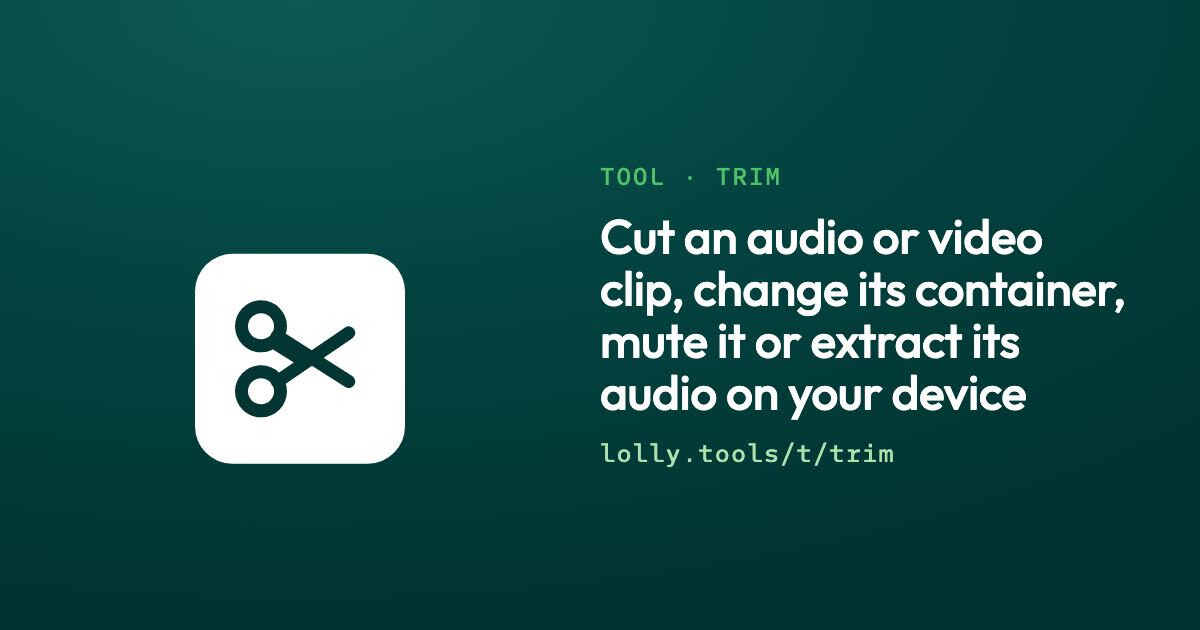
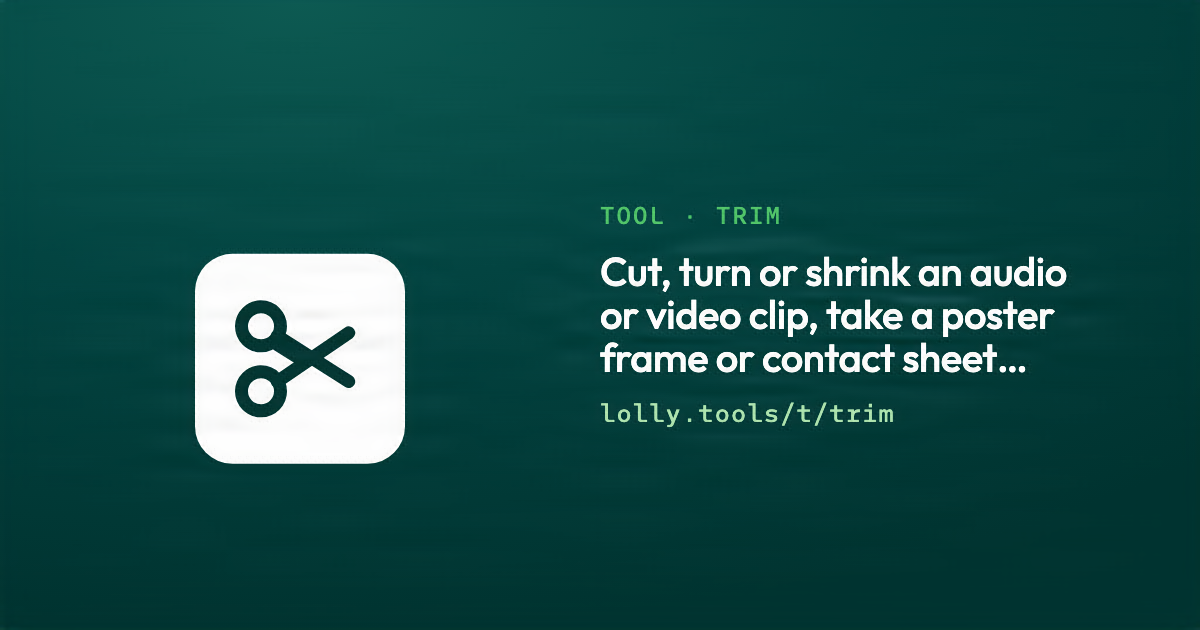
Ship local UI tweaks and refreshed Pages and Trim share cards
- History panel: drop its own padding and the sticky header's background.
- Edge dock: square the corners of a panel docked to the edge.
- lolly-demo share cards for Pages and Trim re-rendered for their
  current descriptions (Pages now mentions turning images into a PDF).
- /info docs CSS rebuilt from current docs sources.

Changed region(s): [[0.4933, 0.3317, 0.925, 0.754], [0.5858, 0.2714, 0.6475, 0.3016], [0.4933, 0.2714, 0.555, 0.3016]]

diff --git a/shells/web/public/info/docs.RDEhcLaHE5JpCjmS.css b/shells/web/public/info/docs.RDEhcLaHE5JpCjmS.css
@@ -93,7 +93,7 @@
   --shadow-rail: 1rem 0 1rem -1rem #0002;
   --shadow-sidebar: 1px 0 3px -3px #0001, 1rem 0 .5rem -.5rem #0001;
   --bevel: inset 0 1px hsl(0 0% 100% / .1);
-  --bevel-inset: inset 0 0px 2px #0003, inset -1px 2px 5px #0001, 0 1px var(--ui-color-surface-raised);
+  --bevel-inset: inset 0 0px 2px color-mix(in srgb, var(--foreground) 25%, transparent), inset -1px 2px 5px #0001, 0 1px var(--ui-color-surface-raised);
   --bevel-input-well: inset 3px 2px 10px var(--ui-color-surface-canvas);
   --ring-focus: 0 0 0 3px hsl(var(--ring) / .15);
   --ring-focus-strong: 0 0 0 2px hsl(var(--primary) / .35);
@@ -2444,7 +2444,7 @@ html[data-a11y-motion="reduce"] .covers--fan .cover-card{transition:none}
 .persona-title{margin-bottom:1.25rem;text-align:center; color:color-mix(in oklab,var(--green) 65%,var(--page)) }
 .persona-radio,.lane-radio{position:absolute;opacity:0;pointer-events:none;width:1px;height:1px}
 .persona-tabs{display:grid;grid-template-columns:repeat(3,1fr);gap:12px}
-.persona-tab{display:flex;flex-direction:column;gap:4px;padding:1rem 1.15rem;border:1px solid var(--border);border-radius:12px;background:var(--page);cursor:pointer;position:relative;transition:border-color .2s ease,transform .2s ease;padding-right:4.4rem}
+.persona-tab{display:flex;flex-direction:column;gap:4px;padding:1rem 1.15rem;border-radius:12px;background:var(--page);cursor:pointer;position:relative;transition:border-color .2s ease,transform .2s ease;padding-right:4.4rem}
 .persona-mascot{position:absolute;right:.7rem;top:50%;transform:translateY(-50%);width:8.5em;height:8.5em;object-fit:contain;pointer-events:none}
 /* The platypus is a wide animal: in the 8.5em square it read as a smudge (Andy, 2026-09-03: 12em). */
 .persona-mascot[src$="platypus.webp"]{width:12em;height:12em; margin-top:-1.5em}

diff --git a/shells/web/src/components/history-panel.css b/shells/web/src/components/history-panel.css
@@ -1,5 +1,5 @@
-.revision-history-panel { display:flex; flex-direction:column; gap:var(--ui-space-control-block); padding:var(--ui-space-panel); min-height:0; height:100%; overflow:auto; background:var(--ui-color-surface-canvas); color:var(--ui-color-text-default); box-sizing:border-box; }
-.revision-history-panel > header { display:flex; align-items:center; justify-content:space-between; gap:var(--ui-space-control-block); position:sticky; top:0; z-index:1; background:var(--ui-color-surface-canvas); padding-block:var(--sp-2); }
+.revision-history-panel { display:flex; flex-direction:column; gap:var(--ui-space-control-block);   min-height:0; height:100%; overflow:auto; background:var(--ui-color-surface-canvas); color:var(--ui-color-text-default); box-sizing:border-box; }
+.revision-history-panel > header { display:flex; align-items:center; justify-content:space-between; gap:var(--ui-space-control-block); position:sticky; top:0; z-index:1;   padding-block:var(--sp-2); }
 .revision-history-panel h2 { font-size:var(--ui-type-lead); margin:0; }
 .revision-history-status,.revision-history-note { font-size:var(--ui-type-caption); line-height:1.5; margin:0; }
 .revision-history-note { opacity:.7; }

diff --git a/shells/web/src/lib/edge-dock.css b/shells/web/src/lib/edge-dock.css
@@ -71,7 +71,7 @@
   width: 100% !important; height: 100% !important; max-width: none !important; max-height: none !important;
   /* The dock owns visibility here: the export panel's reveal is scoped to its #tool-layout
      ancestor (tool.css), which stops matching once it is re-parented into this body-level
-     slot. transform is deliberately NOT reset, so the wobble impulse still reads. */
+     slot. transform is deliberately NOT reset, so the wobble impulse still reads. */ border-radius:0 !important;
   visibility: visible !important; opacity: 1 !important; pointer-events: auto !important;
 }
 .edge-dock-grip {
